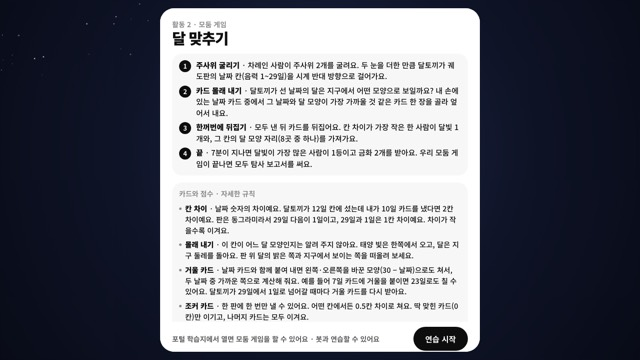
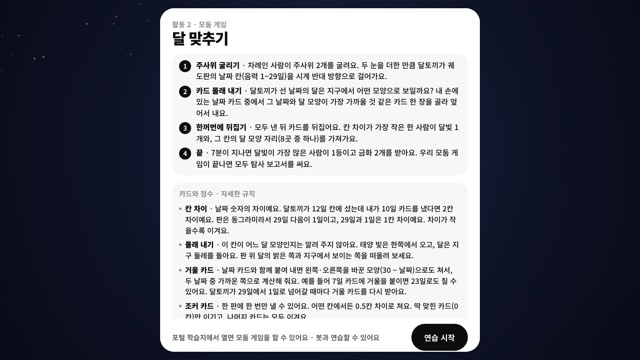
자료 갱신 (파일 3개)
관리 앱에서 올림

Changed region(s): [[0.25, 0.8861, 0.5938, 0.9778], [0.625, 0.8861, 0.7188, 0.9778]]

diff --git a/files/723/723_moon_match.html b/files/723/723_moon_match.html
@@ -12,7 +12,7 @@
 *{box-sizing:border-box;margin:0;padding:0}
 html,body{height:100%;background:#080B17}
 body{font-family:"Noto Sans KR","Apple SD Gothic Neo","Malgun Gothic",sans-serif;color:var(--ink);overflow:hidden;font-variant-numeric:tabular-nums;-webkit-font-smoothing:antialiased}
-button{font:inherit;border:0;cursor:pointer;color:var(--ink);-webkit-tap-highlight-color:transparent;background:none}
+button{font:inherit;border:0;cursor:pointer;color:var(--ink);-webkit-tap-highlight-color:transparent;background:none;touch-action:manipulation}
 svg{display:block}
 
 .app{position:fixed;inset:0;overflow:hidden;user-select:none;-webkit-user-select:none;background:#080B17}
@@ -30,7 +30,8 @@ svg{display:block}
 .seat{background:rgba(255,255,255,.1);border-radius:999px;padding:5px 12px 5px 9px;display:flex;align-items:center;gap:6px;font-size:13.5px;font-weight:700;color:#fff;transition:background .3s,color .3s}
 .seat i{width:10px;height:10px;border-radius:50%}
 .seat .st{display:flex;align-items:center;gap:3px;opacity:.9}
-.seat.turn{background:#fff;color:var(--ink)}
+.seat.turn{background:#FFB340;color:var(--ink);box-shadow:0 0 0 3px rgba(255,179,64,.35)}
+.seat .tn{font-size:11px;font-weight:900;background:var(--ink);color:#fff;border-radius:999px;padding:1px 7px}
 .seat.played::after{content:"냄";font-size:11px;font-weight:700;opacity:.7}
 .seat.off{opacity:.45}
 .seat.win{background:#DDF5EA;color:var(--ok)}
@@ -61,12 +62,13 @@ svg{display:block}
 .cap{color:#fff;font-size:16px;font-weight:700;text-align:center;padding:0 16px;min-height:24px;margin-bottom:8px;text-shadow:0 1px 6px rgba(8,11,23,.9);pointer-events:none;transition:opacity .25s}
 .cap.pulse{animation:capp .5s}
 @keyframes capp{30%{transform:scale(1.08);color:#FFB340}}
-.act{position:absolute;right:16px;bottom:16px;z-index:5;display:flex;flex-direction:column;gap:8px;align-items:flex-end;max-width:236px}
+.act{position:absolute;right:16px;bottom:16px;z-index:60;display:flex;flex-direction:column;gap:8px;align-items:flex-end;max-width:236px}
 .phone .act{position:static;flex-direction:row;flex-wrap:wrap;justify-content:center;align-items:center;max-width:none;min-height:48px;margin:6px 10px 4px}
-.btn{height:48px;padding:0 24px;border-radius:999px;font-size:15.5px;font-weight:700;background:rgba(255,255,255,.16);color:#fff;transition:background .2s,color .2s,transform .1s,opacity .2s;white-space:nowrap}
+.btn{height:54px;padding:0 26px;border-radius:999px;font-size:15.5px;font-weight:700;background:rgba(255,255,255,.16);color:#fff;transition:background .2s,color .2s,transform .1s,opacity .2s;white-space:nowrap}
 .btn:active{transform:scale(.97)}
 .btn.pri{background:#fff;color:var(--ink)}
 .btn:disabled{opacity:.4;cursor:default}
+.btn.wait{opacity:.6;pointer-events:none}
 .btn.glow{animation:glw .9s 2}
 @keyframes glw{50%{box-shadow:0 0 0 7px rgba(255,179,64,.55)}}
 .note{border-radius:18px;padding:9px 14px;font-size:14px;font-weight:700;line-height:1.4;background:#fff;color:var(--mut)}
@@ -86,6 +88,22 @@ svg{display:block}
 .shake{animation:shk .4s}
 @keyframes shk{20%{margin-left:-7px}40%{margin-left:7px}60%{margin-left:-4px}80%{margin-left:4px}}
 
+/* 지금 누구 차례인지 */
+.whose{display:flex;align-items:center;gap:9px;margin-bottom:8px;padding:10px 22px;border-radius:999px;font-size:20px;font-weight:900;letter-spacing:-.02em;background:rgba(255,255,255,.14);color:#fff;pointer-events:none;max-width:calc(100% - 24px);white-space:nowrap;overflow:hidden;text-overflow:ellipsis}
+.whose:empty{display:none}
+.whose i{width:14px;height:14px;border-radius:50%;flex:none}
+.whose small{font-size:15px;font-weight:700;opacity:.8}
+.whose.me{background:#FFB340;color:var(--ink);animation:wsp 1.4s infinite}
+@keyframes wsp{50%{box-shadow:0 0 0 8px rgba(255,179,64,.35)}}
+.splash{position:absolute;left:50%;top:42%;transform:translate(-50%,-50%) scale(.7);opacity:0;z-index:70;pointer-events:none;background:#FFB340;color:var(--ink);border-radius:28px;padding:18px 34px;text-align:center;box-shadow:0 0 0 10px rgba(255,179,64,.3),0 20px 50px rgba(0,0,0,.5)}
+.splash b{display:block;font-size:40px;font-weight:900;letter-spacing:-.04em;line-height:1.2}
+.splash span{display:block;font-size:18px;font-weight:700;margin-top:4px}
+.splash.on{animation:spl 2s var(--ease) forwards}
+@keyframes spl{0%{opacity:0;transform:translate(-50%,-50%) scale(.7)}15%{opacity:1;transform:translate(-50%,-50%) scale(1.05)}25%{transform:translate(-50%,-50%) scale(1)}80%{opacity:1}100%{opacity:0;transform:translate(-50%,-50%) scale(1)}}
+.phone .whose{font-size:16px;padding:8px 16px}
+.phone .whose small{font-size:13px}
+.phone .splash b{font-size:30px}
+.phone .splash span{font-size:15px}
 /* 시작 화면(모둠) */
 .lobby{position:absolute;inset:0;z-index:12;display:none;align-items:center;justify-content:center;padding:16px;
   background:radial-gradient(circle at 50% 42%,#1E2747 0,#0E1326 55%,#080B17 100%)}
@@ -103,9 +121,10 @@ svg{display:block}
 .mem.in::before{content:"";width:8px;height:8px;border-radius:50%;background:var(--ok)}
 .lbtns{display:flex;flex-wrap:wrap;gap:8px;justify-content:flex-end;align-items:center}
 .lbtns .msg{flex:1;min-width:180px;font-size:14px;font-weight:700;color:var(--mut);line-height:1.45}
-.pb{height:48px;padding:0 24px;border-radius:999px;font-size:15.5px;font-weight:700;background:var(--ink);color:#fff;white-space:nowrap}
+.pb{height:54px;padding:0 26px;border-radius:999px;font-size:15.5px;font-weight:700;background:var(--ink);color:#fff;white-space:nowrap}
 .pb.sub{background:var(--pill);color:var(--ink)}
-.pb:disabled{background:var(--pill);color:var(--dim);cursor:default}
+.pb:disabled,.pb.off{background:var(--pill);color:var(--dim);cursor:default}
+.lbtns .msg.no{color:var(--no)}
 .lcard{width:min(640px,100%)}
 .rules b.t{font-weight:900}
 .rules2{display:flex;flex-direction:column;gap:7px;background:var(--box);border-radius:20px;padding:12px 14px}
@@ -188,7 +207,7 @@ h2{font-size:26px;font-weight:900;letter-spacing:-.04em;line-height:1.25}
 .phone .hc{width:78px;height:109px;bottom:2px}
 .phone .mechip{left:auto;right:10px;bottom:auto;top:96px}
 .phone .mechip .seat{font-size:13px;padding:6px 10px}
-.phone .btn{height:44px;padding:0 18px;font-size:14.5px}
+.phone .btn{height:50px;padding:0 20px;font-size:15px}
 .phone .note{font-size:12.5px;border-radius:16px;text-align:center}
 .phone .tg{font-size:11px;padding:3px 8px}
 .phone .page{padding:12px}
@@ -212,7 +231,8 @@ h2{font-size:26px;font-weight:900;letter-spacing:-.04em;line-height:1.25}
     <div class="ban" id="ban"></div>
     <div class="tags" id="tags"></div>
     <div class="mechip" id="mechip"></div>
-    <div class="dock"><div class="cap" id="cap"></div><div class="act" id="act"></div><div class="hand" id="hand"></div></div>
+    <div class="splash" id="splash"></div>
+    <div class="dock"><div class="whose" id="whose"></div><div class="cap" id="cap"></div><div class="act" id="act"></div><div class="hand" id="hand"></div></div>
   </div>
   <section class="lobby on" id="lobby"><canvas class="sky" id="sky"></canvas><div class="lcard" id="lcard"></div></section>
   <section class="lobby ruleov" id="ruleov"><div class="lcard" id="rulecard"></div></section>
@@ -602,7 +622,7 @@ function cap(t,pulse){const c=$('#cap');c.textContent=t||'';if(pulse){c.classLis
 let banT;function banner(k){const b=$('#ban');b.innerHTML=`<span class="ic"><svg viewBox="0 0 24 24">${IC[k]}</svg></span><div><b>${EVT[k].n}</b><span>${EVT[k].d}</span></div>`;b.classList.add('on');clearTimeout(banT);banT=setTimeout(()=>b.classList.remove('on'),3400)}
 function drawSeats(win=[]){
   const g=ST.game;
-  const h=p=>`<span class="seat${g.turn==p.seat&&g.status=='playing'?' turn':''}${p.played&&g.phase=='play'?' played':''}${win.includes(p.seat)?' win':''}${p.online?'':' off'}"><i style="background:${colorOf(p.seat)}"></i>${esc(nameOf(p.seat))}<span class="st">${COIN}${p.star}</span><span class="zl">${[...p.dex].sort().map(z=>Z[z]).join('')}</span></span>`;
+  const h=p=>`<span class="seat${g.turn==p.seat&&g.status=='playing'?' turn':''}${p.played&&g.phase=='play'?' played':''}${win.includes(p.seat)?' win':''}${p.online?'':' off'}"><i style="background:${colorOf(p.seat)}"></i>${esc(nameOf(p.seat))}${g.turn==p.seat&&g.status=='playing'&&g.phase=='roll'?'<b class="tn">차례</b>':''}<span class="st">${COIN}${p.star}</span><span class="zl">${[...p.dex].sort().map(z=>Z[z]).join('')}</span></span>`;
   const o=order();$('#seats').innerHTML=o.slice(1).map(h).join('');$('#mechip').innerHTML=o[0]?h(o[0]):'';
 }
 let deadline=0,endAt=0;
@@ -611,14 +631,33 @@ function drawClock(){
   $('#clock').textContent=(e/60|0)+':'+String(e%60).padStart(2,'0');
   const who=g.turn==meSeat()?'내':nameOf(g.turn);
   $('#turnChip').textContent=g.status=='playing'?`${g.turn_no}번째 턴 · ${who} 차례`+(g.pot?` · 쌓인 달빛 ${g.pot}`:'')+(g.phase!='reveal'&&left<=10?` · ${left}초`:''):'';
+  drawWhose(left);
 }
 setInterval(drawClock,250);
+function drawWhose(left){
+  const el=$('#whose'),g=ST?.game;let h='',me=false;
+  if(g&&g.status=='playing'&&g.me&&!$('#lobby').classList.contains('on')){
+    const sec=left<=10?` <small>· ${left}초</small>`:'';
+    if(g.phase=='roll'){
+      if(g.turn==meSeat()){me=true;h=`내 차례예요 · 주사위를 굴려요${sec}`}
+      else h=`<i style="background:${colorOf(g.turn)}"></i>${esc(nameOf(g.turn))} 차례 <small>· 주사위를 기다려요</small>`;
+    }else if(g.phase=='play'){
+      const n=g.players.filter(p=>p.played).length,m=g.players.length;
+      if(!V?.rolled)h=`<i style="background:${colorOf(g.turn)}"></i>${g.turn==meSeat()?'내':esc(nameOf(g.turn))} 차례 <small>· 주사위를 굴려요</small>`;
+      else if(g.me.play||V?.myPending)h=`카드를 냈어요 <small>· ${m}명 중 ${n}명 냄</small>`;
+      else{me=true;h=`모두 카드 낼 차례 · 나도 한 장 내요${sec}`}
+    }else h='카드를 뒤집어요';
+  }
+  if(el.dataset.h!==h+me){el.dataset.h=h+me;el.innerHTML=h;el.classList.toggle('me',me)}
+}
+let splT;function splash(t,sub){const e=$('#splash');e.innerHTML=`<b>${t}</b><span>${sub}</span>`;e.classList.remove('on');void e.offsetWidth;e.classList.add('on');clearTimeout(splT);splT=setTimeout(()=>e.classList.remove('on'),2100);try{navigator.vibrate&&navigator.vibrate(180)}catch(_){}}
 
 /* 손패 */
-let shownHand=[];
+let shownHand=[],handKey='';
 function handItems(){const m=ST?.game?.me;if(!m)return[];const a=[...m.hand];if(m.mir)a.push('M');if(m.jok)a.push('J');return a}
 function drawHand(){
   const hd=$('#hand'),it=handItems(),ph=isPhone(),cw=ph?78:Math.max(72,Math.min(112,H*.137)),ch=cw*1.4,n=it.length;
+  const key=[it.join(','),S.sel,S.mir,W,H,DR.k].join('|');if(key===handKey&&hd.children.length===n)return;handKey=key;
   const st=Math.min(ph?47:cw*.82,(W-24-cw)/Math.max(1,n-1)),x0=(W-(cw+st*(n-1)))/2,fresh=it.filter(k=>!shownHand.includes(k));
   hd.style.height=(ch+15)+'px';
   hd.innerHTML=it.map((k,i)=>`<button class="hc${fresh.includes(k)&&shownHand.length?' in':''}${k===S.sel||k=='M'&&S.mir?' on':''}" data-k="${k}" style="left:${x0+i*st}px;z-index:${i+1};width:${cw}px;height:${ch}px"><img alt="" src="${faceURL(isNaN(+k)?k:+k)}"></button>`).join('');
@@ -711,15 +750,17 @@ async function applyNow(st){
   if(!V||V.turnNo!==g.turn_no){
     const first=!V;V={turnNo:g.turn_no,rolled:false,revealed:false,placed:new Set(),myPending:false};
     $('#pip').classList.remove('on');tw(250,e=>sight.material.opacity=.8*(1-e));hi.material.opacity=0;
-    S.sel=null;S.mir=false;await clearCards(!first);
+    S.sel=null;S.mir=false;$('#act').innerHTML='';await clearCards(!first);
     if(g.phase=='roll'){S.day=g.day;setMoon(g.day,0)}
   }
   drawSeats();
   if(g.phase=='roll'){
     drawHand();
-    $('#act').innerHTML='';
-    if(g.turn==meSeat()){cap('내 차례 · 주사위를 굴려 달토끼를 움직여요');$('#act').innerHTML='<button class="btn pri" id="roll">주사위 굴리기</button>';$('#roll').onclick=doRoll}
-    else cap(nameOf(g.turn)+' 차례 · 주사위를 기다려요');
+    if(g.turn==meSeat()){
+      if(!$('#roll')){$('#act').innerHTML='<button class="btn pri glow" id="roll">주사위 굴리기</button>';$('#roll').onclick=doRoll}
+      if(!V.sR){V.sR=true;splash('내 차례예요!','[주사위 굴리기]를 눌러요')}
+      cap('내 차례 · 주사위를 굴려 달토끼를 움직여요')}
+    else{if($('#roll')||$('#go'))$('#act').innerHTML='';cap(nameOf(g.turn)+' 차례 · 주사위를 기다려요')}
     localExtras();return;
   }
   if(!V.rolled){
@@ -744,6 +785,7 @@ async function applyNow(st){
     if(g.me.play||V.myPending){$('#act').innerHTML='';cap(`모두 낼 때까지 기다려요 · ${m}명 중 ${n}명 냄`)}
     else{
       if(!$('#go')){$('#act').innerHTML='<button class="btn pri" id="go" disabled>카드 내기</button>';$('#go').onclick=playMine}
+      if(!V.sP){V.sP=true;splash('카드를 낼 차례!','달 모양이 가장 가까운 카드를 골라요')}
       $('#go').disabled=S.sel==null;
       if(!$('#cap').textContent||/낼 때까지|주사위|칸 ·/.test($('#cap').textContent))cap(`달토끼가 ${g.day}일 칸에 멈췄어요 · 이 칸의 달과 가장 가까운 카드를 내요`);
     }
@@ -788,9 +830,9 @@ async function reveal(g){
   (L.last||[]).forEach(s=>tag(s,'카드 +1'));drawSeats(win);
 }
 async function doRoll(){
-  if(busy)return;busy=true;$('#act').innerHTML='';
+  if(busy)return;busy=true;const rb=$('#roll');if(rb){rb.textContent='굴리는 중…';rb.classList.add('wait')}
   const r=await API().roll(ST.game.id);busy=false;
-  if(!r?.ok){cap(ERR[r?.error]||'다시 해 주세요',true);poll(true);return}
+  if(!r?.ok){if(rb){rb.textContent='주사위 굴리기';rb.classList.remove('wait')}cap(ERR[r?.error]||'다시 해 주세요',true);poll(true);return}
   apply(r);
 }
 async function playMine(){
@@ -829,7 +871,7 @@ $('#ruleBtn').onclick=openRules;
 function showLobby(st){
   const lb=$('#lobby');lb.classList.add('on');lb.classList.toggle('lmini',!BIG&&H<560);if(!sky){sky=1;drawSky()}
   const g=st?.game,err=st?.ok?null:st?.error,mem=st?.members||[],joined=mem.filter(m=>m.joined).length;
-  const coins=st?.coins??2,mins=st?.minutes??7;
+  const coins=st?.coins??2,mins=st?.minutes??7,need=()=>Math.max(2,mem.length);
   let msg='',btns='';
   if(MODE=='net'&&!err&&st?.group_no!=null){
     const mine=mem.find(m=>m.me);
@@ -837,7 +879,7 @@ function showLobby(st){
     else if(!mine?.joined){msg=g?.status=='playing'?'우리 모둠이 하고 있어요':'';btns=`<button class="pb" id="lgo">${g?.status=='playing'?'들어가기':'시작'}</button>`}
     else{const need=Math.max(2,mem.length),all=joined>=need;
       msg=all?`${joined}명 모두 들어옴`:`모둠원을 기다려요 · ${need}명 중 ${joined}명 들어옴`;
-      btns=(all?'':'<button class="pb sub" id="lpr">연습하기</button>')+`<button class="pb" id="lst"${all?'':' disabled'}>게임 시작</button>`}
+      btns=(all?'':'<button class="pb sub" id="lpr">연습하기</button>')+`<button class="pb${all?'':' off'}" id="lst">게임 시작</button>`}
   }else{
     msg=err=='WAIT'?ERR.WAIT:(err?(ERR[err]||'모둠 게임을 열지 못했어요'):'오늘 모둠이 아직 없어요')+' · 봇과 연습할 수 있어요';
     btns=`<button class="pb" id="lpr">연습 시작</button>`;
@@ -850,9 +892,12 @@ function showLobby(st){
   const go=$('#lgo'),stt=$('#lst'),pr=$('#lpr');
   if(BIG&&inPortal)$('.lbtns').insertAdjacentHTML('beforeend','<button class="pb sub" id="lsm">작게</button>');
   if($('#lsm'))$('#lsm').onclick=()=>{setBig(false);showLobby(st)};
-  if(go)go.onclick=async()=>{setBig(true);go.disabled=true;const r=await NET.join();go.disabled=false;if(!r?.ok){$('.lbtns .msg').textContent=ERR[r?.error]||'들어가지 못했어요';return}apply(r)};
-  if(stt)stt.onclick=async()=>{setBig(true);stt.disabled=true;const r=await NET.start();stt.disabled=false;if(!r?.ok){$('.lbtns .msg').textContent=ERR[r?.error]||'시작하지 못했어요';return}apply(r)};
-  if(pr)pr.onclick=()=>{setBig(true);MODE='local';V=null;ended=null;shownHand=[];apply(LOCAL.start())};
+  const lmsg=(t)=>{const m=$('.lbtns .msg');m.textContent=t;m.classList.add('no');m.classList.remove('shake');void m.offsetWidth;m.classList.add('shake')};
+  const waitB=(b,t)=>{const o=b.textContent;b.disabled=true;b.textContent=t;return()=>{b.disabled=false;b.textContent=o}};
+  if(go)go.onclick=async()=>{const back=waitB(go,'들어가는 중…');setBig(true);const r=await NET.join();back();if(!r?.ok){lmsg(ERR[r?.error]||'들어가지 못했어요');return}apply(r)};
+  if(stt)stt.onclick=async()=>{if(stt.classList.contains('off')){lmsg(`모둠원이 모두 들어와야 시작해요 · ${need()}명 중 ${joined}명 들어옴`);return}
+    const back=waitB(stt,'시작하는 중…');setBig(true);const r=await NET.start();back();if(!r?.ok){lmsg(ERR[r?.error]||'시작하지 못했어요');return}apply(r)};
+  if(pr)pr.onclick=()=>{setBig(true);MODE='local';V=null;ended=null;shownHand=[];handKey='';apply(LOCAL.start())};
 }
 function hideLobby(){$('#lobby').classList.remove('on')}
 function setBig(on){if(!inPortal)return;BIG=on;tell({type:'mm:big',on});$('#sizeBtn').textContent=on?'작게':'크게'}
@@ -892,7 +937,7 @@ function renderEnd(){
       <div class="grow"></div><div style="display:flex;gap:8px;justify-content:flex-end;flex-wrap:wrap">${inPortal?'<button class="pbtn sub" id="tolobby">모둠 로비로</button>':''}<button class="pbtn" id="again">다시 연습</button></div></div></div></div>`;
     v.classList.add('on');
     if($('#esz'))$('#esz').onclick=()=>{setBig(!BIG);$('#esz').textContent=BIG?'작게':'크게'};
-    $('#again').onclick=()=>{v.classList.remove('on');V=null;ended=null;shownHand=[];apply(LOCAL.start())};
+    $('#again').onclick=()=>{v.classList.remove('on');V=null;ended=null;shownHand=[];handKey='';apply(LOCAL.start())};
     if($('#tolobby'))$('#tolobby').onclick=async()=>{v.classList.remove('on');V=null;ended=null;shownHand=[];MODE='net';joinTried=false;clearCards(false);const r=await NET.state();if(r?.ok)apply(r);else showLobby(r||{ok:false,error:'NO_PORTAL'})};
     return;
   }
